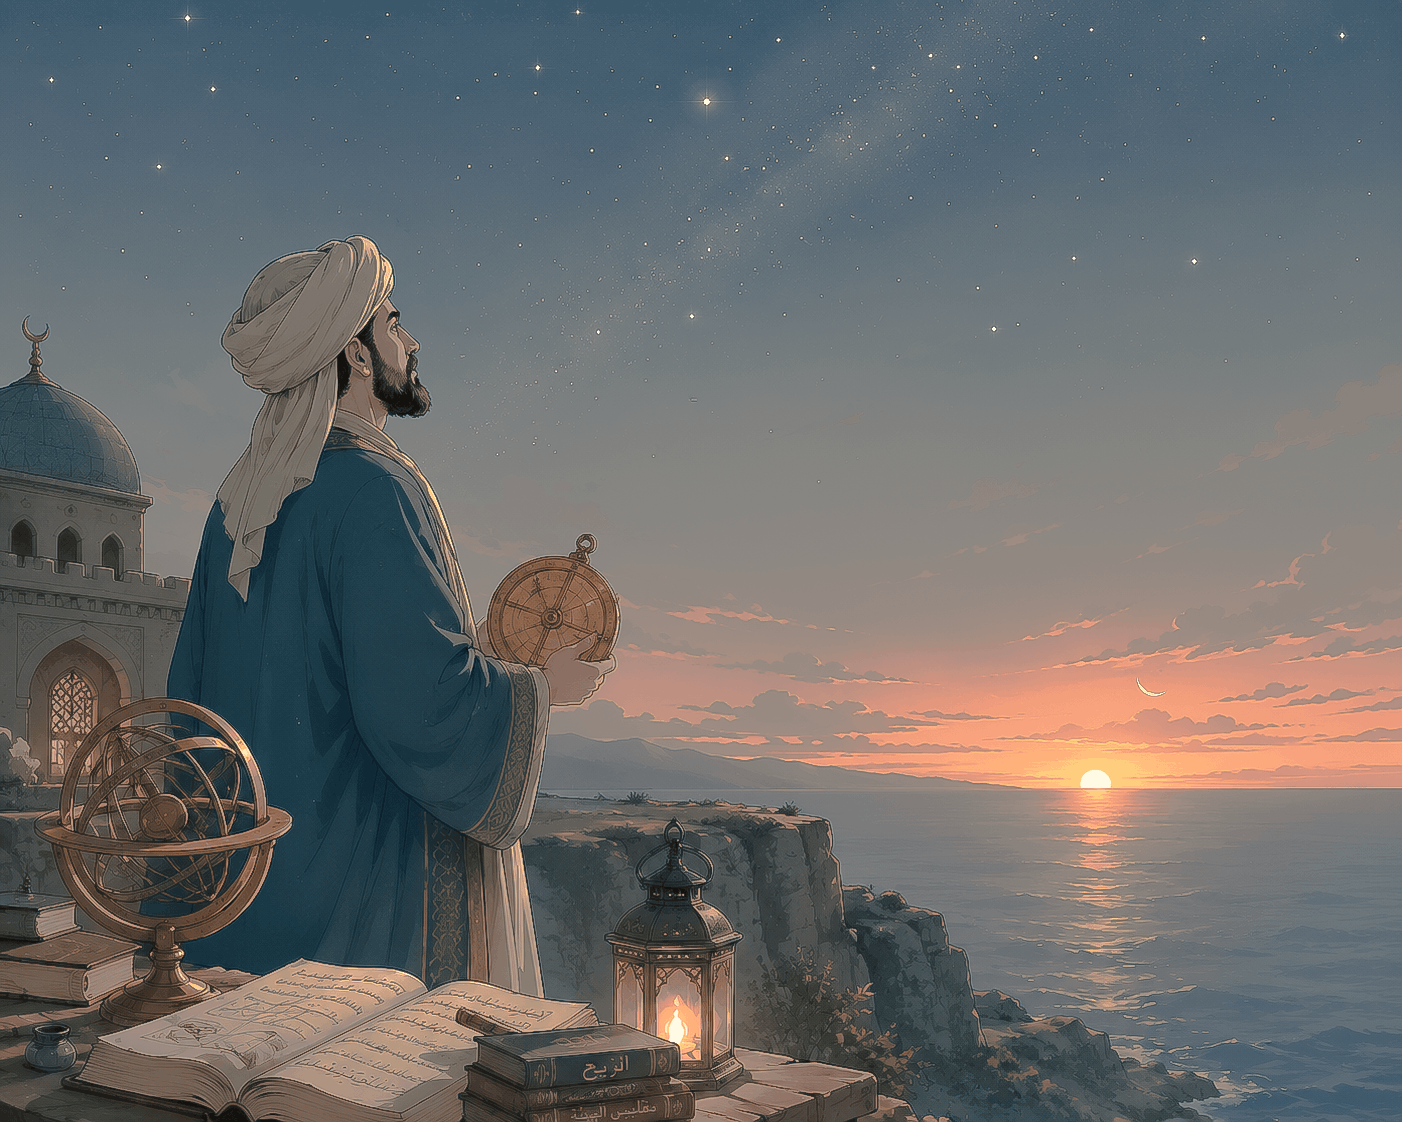
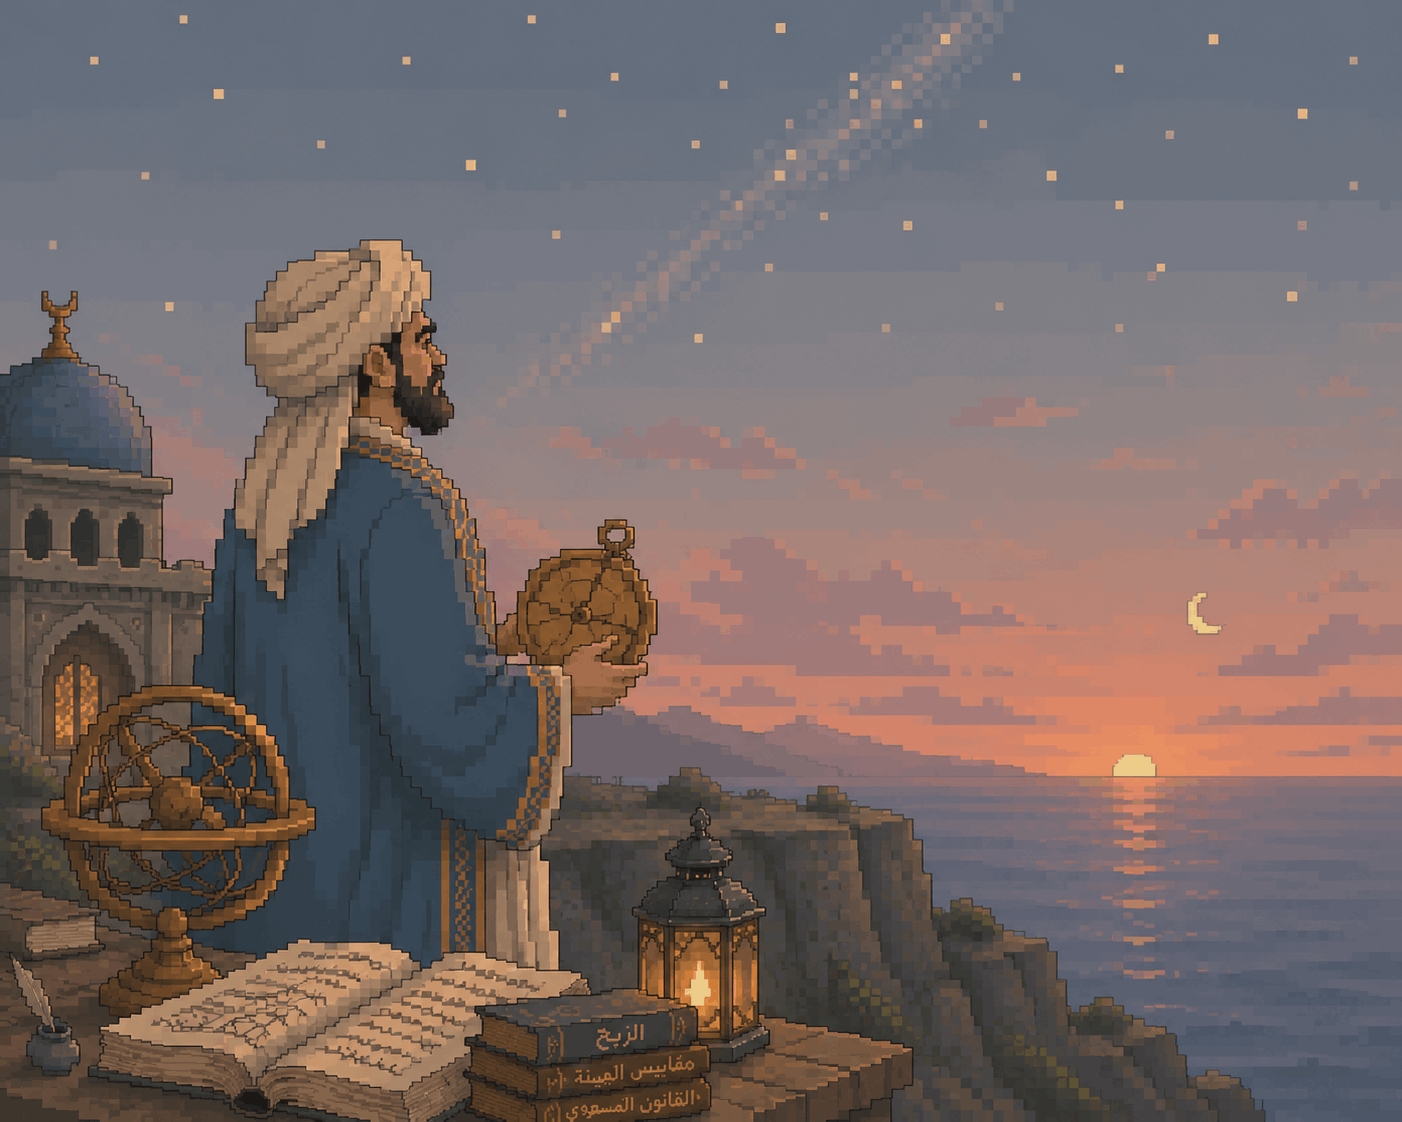
Correct Pulau Unimak coordinates; update bg.png
Fix Pulau Unimak coordinate in hisabwin.py to (54.747230156022155, -164.22056254285286) to improve location accuracy. Also replace bg.png (updated binary background image).

diff --git a/hisabwin.py b/hisabwin.py
@@ -2308,7 +2308,7 @@ def _mask_mainland_amerika_shapely(lat_mesh, lon_mesh):
 TITIK_KHUSUS_AMERIKA = [
     ("Cold Bay, AK", 55.2055, -162.7085),
     ("Morzhovoi, AK", 54.9069, -163.3189),
-    ("Pulau Unimak, AK", 54.59292981484854, -164.92662076786348),
+    ("Pulau Unimak, AK", 54.747230156022155, -164.22056254285286),
     ("Laguna San Ignacio", 26.79510918359005, -113.30096109041156),
 ]
 # Radius toleransi (derajat, dibandingkan langsung lat/lon, bukan haversine)
